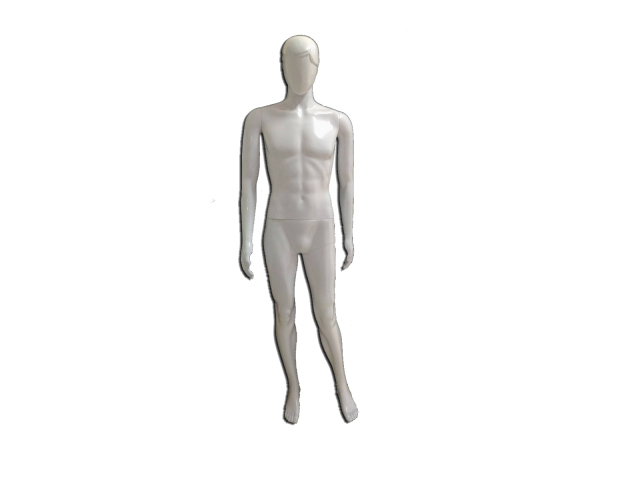
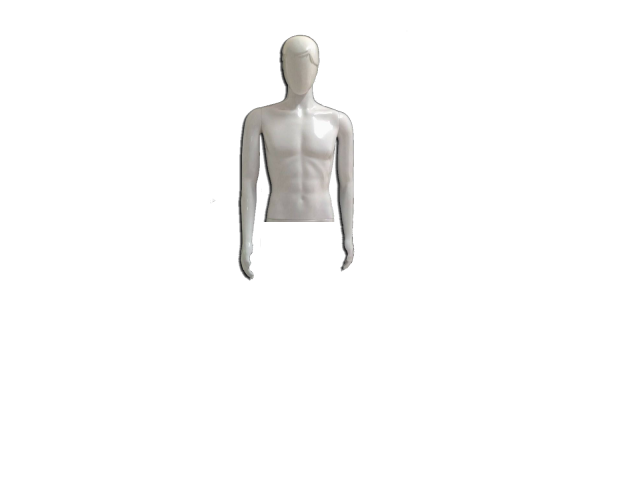
manne

Changed region(s): [[0.4062, 0.4375, 0.5625, 0.9062]]

diff --git a/startpage/sketch.js b/startpage/sketch.js
@@ -1,3 +1,7 @@
+// pants
+//nike imaages
+
+
 
 let manneImage;
 let adidasArray =[];
@@ -8,18 +12,12 @@ let currentColor = "";
 let screenImagesArray = [];
 let mouseXArray = [];
 let mouseYArray = [];
+let widthArray = [];
+let heightArray = [];
 
-
-function setup() {
-    createCanvas(2700, 700);
-    noStroke();
-
-    // change imageMode
-    imageMode(CENTER);
-
+function preload() {
     // load images
-
-    manneImage = loadImage("images/manne.png")   
+    manneImage = loadImage("images/manne2.png")   
     for (let i = 0; i < 3; i++) {
         let temp = loadImage("images/Adidas/adidas_" + i + ".png");
         adidasArray.push(temp);
@@ -32,11 +30,20 @@ function setup() {
         let temp = loadImage("images/champion/champion_" + i + ".png")
         championArray.push(temp);
       }
-    for(let i = 0; i < 53; i++){
-        let temp = loadImage("images/Nike/nike_" + i + ".png")
-        nikeArray.push(temp);
+    // for(let i = 0; i < 53; i++){
+    //     let temp = loadImage("images/Nike/nike_" + i + ".png")
+    //     nikeArray.push(temp);
 
-    }
+    // }
+}
+
+
+function setup() {
+    createCanvas(2000, 1000);
+    noStroke();
+
+    // change imageMode
+    imageMode(CENTER);
       
 }
 
@@ -60,29 +67,29 @@ function draw() {
     image(championArray[6],1150,50,100,100)
     image(championArray[7],1250,50,100,100)
     image(championArray[8],1350,50,100,100)
-    image(nikeArray[5],1450,50,100,100)
-    image(nikeArray[6],1550,50,100,100)
-    image(nikeArray[7],1650,50,100,100)
-    image(nikeArray[9],1750,50,100,100)
-    image(nikeArray[11],1850,50,100,100)
-    image(nikeArray[12],1950,50,100,100)
-    image(nikeArray[13],2050,50,100,100)
-    image(nikeArray[14],2150,50,100,100)
-    image(nikeArray[16],2250,50,100,100)
-    image(nikeArray[20],2350,50,100,100)
-    image(nikeArray[21],2450,50,100,100)
+    // image(nikeArray[5],1450,50,100,100)
+    // image(nikeArray[6],1550,50,100,100)
+    // image(nikeArray[7],1650,50,100,100)
+    // image(nikeArray[9],1750,50,100,100)
+    // image(nikeArray[11],1850,50,100,100)
+    // image(nikeArray[12],1950,50,100,100)
+    // image(nikeArray[13],2050,50,100,100)
+    // image(nikeArray[14],2150,50,100,100)
+    // image(nikeArray[16],2250,50,100,100)
+    // image(nikeArray[20],2350,50,100,100)
+    // image(nikeArray[21],2450,50,100,100)
     // image(nikeArray[24],2550,50,100,100)
     // image(nikeArray[25],2650,50,100,100)
     
 
     
     // draw mannequin box
-    image(manneImage, 1500,350,800,500)
+    image(manneImage, 800,700,900,1000)
     
 
     // draw all images in screenImagesArray
     for (let i = 0; i < screenImagesArray.length; i++) {
-        image(screenImagesArray[i], mouseXArray[i], mouseYArray[i], 300, 300);
+        image(screenImagesArray[i], mouseXArray[i], mouseYArray[i], widthArray[i], heightArray[i]);
     }
 
     // every time the draw loop iterates, check currentPokemon
@@ -93,7 +100,7 @@ function draw() {
 
     // if currentColor is red
     if (currentColor == "red") {
-        image(adidasArray[1], mouseX, mouseY, 250, 250);
+        image(adidasArray[1], mouseX, mouseY, 262, 250);
     }
 
     // if currentColor is blue
@@ -131,7 +138,7 @@ function draw() {
         image(championArray[7], mouseX, mouseY,250,250)
     }
     if(currentColor == "rgb(3, 24, 252)"){
-        image(championArray[8], mouseX, mouseY,250,250)
+        image(championArray[8], mouseX, mouseY,270,250)
     }
     if(currentColor == "rgb(132, 3, 252)"){
         image(nikeArray[5], mouseX, mouseY,250,250)
@@ -172,12 +179,12 @@ function draw() {
 function mouseClicked() {
     // check if one of the boxes are clicked
     // if the green box is clicked
-    if (mouseX > 50 && mouseX < 100 && mouseY > 0 && mouseY < 100) {
+    if (mouseX > 0 && mouseX < 100 && mouseY > 0 && mouseY < 100) {
         currentColor = "green";
     }
 
     // if the red box is clicked
-    if (mouseX > 150 && mouseX < 200 && mouseY > 0 && mouseY < 100) {
+    if (mouseX > 100 && mouseX < 200 && mouseY > 0 && mouseY < 100) {
         currentColor = "red";
     }
     
@@ -273,80 +280,129 @@ function mouseClicked() {
    
         if (currentColor == "green") {
             screenImagesArray.push(adidasArray[0]);
+            widthArray.push(250);
+            heightArray.push(250);
         }
 
         if (currentColor == "red") {
             screenImagesArray.push(adidasArray[1]);
+            widthArray.push(262);
+            heightArray.push(250);
         }
         if (currentColor == "blue"){
             screenImagesArray.push(adidasArray[2])
+            widthArray.push(250);
+            heightArray.push(250);
         }
         
         if(currentColor == "rgb(252, 98, 3)") {
             screenImagesArray.push(pumaArray[1]);
+            widthArray.push(250);
+            heightArray.push(250);
         }
         if(currentColor == "rgb(252, 157, 3)") {
             screenImagesArray.push(pumaArray[2]);
+            widthArray.push(250);
+            heightArray.push(250);
         }
         if(currentColor == "rgb(252, 223, 3)") {
             screenImagesArray.push(championArray[0]);
+            widthArray.push(250);
+            heightArray.push(250);
         }
         if(currentColor == "rgb(252, 252, 3)") {
             screenImagesArray.push(championArray[1]);
+            widthArray.push(250);
+            heightArray.push(250);
         }
         if(currentColor == "rgb(140, 252, 3)"){
             screenImagesArray.push(championArray[2]);
+            widthArray.push(250);
+            heightArray.push(250);
         }
         if(currentColor == "rgb(61, 252, 3)") {
             screenImagesArray.push(championArray[3]);
+            widthArray.push(250);
+            heightArray.push(250);
         }
         if(currentColor == "rgb(3, 252, 177)") {
             screenImagesArray.push(championArray[4]);
+            widthArray.push(250);
+            heightArray.push(250);
         }
         if(currentColor == "rgb(3, 252, 240)") {
             screenImagesArray.push(championArray[5]);
+            widthArray.push(250);
+            heightArray.push(250);
         }
         if(currentColor == "rgb(3, 198, 252)"){
             screenImagesArray.push(championArray[6]);
+            widthArray.push(250);
+            heightArray.push(250);
         }
         if(currentColor == "rgb(3, 115, 252)"){
             screenImagesArray.push(championArray[7]);
+            widthArray.push(250);
+            heightArray.push(250);
         }
         if(currentColor == "rgb(3, 24, 252)") {
             screenImagesArray.push(championArray[8]);
+            widthArray.push(270);
+            heightArray.push(250);
         }
         if(currentColor == "rgb(132, 3, 252)") {
             screenImagesArray.push(nikeArray[5]);
+            widthArray.push(250);
+            heightArray.push(250);
         }
         if(currentColor == "rgb(186, 3, 252)"){
             screenImagesArray.push(nikeArray[6]);
+            widthArray.push(250);
+            heightArray.push(250);
         }
         if(currentColor == "rgb(252, 3, 240)") {
             screenImagesArray.push(nikeArray[7]);
+            widthArray.push(250);
+            heightArray.push(250);
         }
         if(currentColor == "rgb(252, 3, 103)") {
             screenImagesArray.push(nikeArray[9]);
+            widthArray.push(250);
+            heightArray.push(250);
         }
         if(currentColor == "black") {
-            screenImagesArray.push(nikeArray[11]);
+            screenImagesArray.push(nikeArray[11]);widthArray.push(250);
+            heightArray.push(250);
         }
         if(currentColor == "white") {
             screenImagesArray.push(nikeArray[12]);
+            widthArray.push(250);
+            heightArray.push(250);
         }
         if(currentColor == "yellow") {
             screenImagesArray.push(nikeArray[13]);
+            widthArray.push(250);
+            heightArray.push(250);
         }
         if(currentColor == "orange") {
             screenImagesArray.push(nikeArray[14]);
+            widthArray.push(250);
+            heightArray.push(250);
         }
         if(currentColor == "brown") {
             screenImagesArray.push(nikeArray[16]);
+            widthArray.push(250);
+            heightArray.push(250);
         }
         if(currentColor == "pink") {
             screenImagesArray.push(nikeArray[20]);
+            widthArray.push(250);
+            heightArray.push(250);
         }
         if(currentColor == "purple") {
             screenImagesArray.push(nikeArray[21]);
+            widthArray.push(250);
+            heightArray.push(250);
         }
      
         
